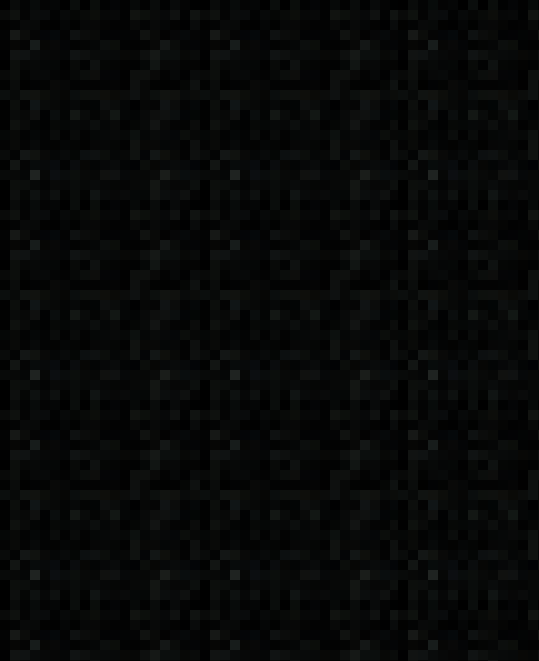
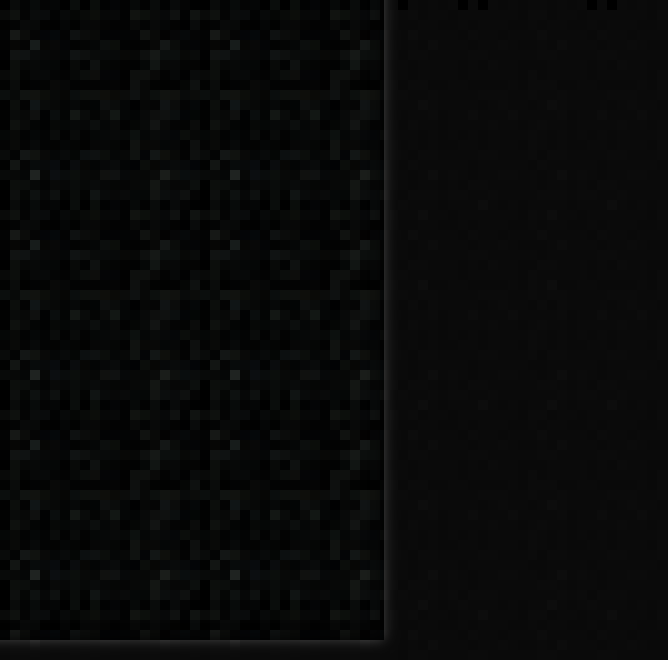
Display the next tetromino

diff --git a/src/com/flogisoft/tetrize/Game.java b/src/com/flogisoft/tetrize/Game.java
@@ -41,6 +41,7 @@ public class Game {
 
 	public static List<Block> blocks = new ArrayList<Block>();
 	public static Tetromino tetromino = null;
+	public static Tetromino nextTetromino = null;
 
 	public static int speed = 1;
 	private static int nSpeed = 10;
@@ -60,6 +61,7 @@ public class Game {
 		Timer timer = new Timer();
 		timer.scheduleAtFixedRate(new RefreshNUpdate(this), 100, 20);
 
+		Game.nextTetromino();
 		Game.nextTetromino();
 	}
 
@@ -99,28 +101,29 @@ public class Game {
 	static public void nextTetromino() {
 		Random randomGenerator = new Random();
 		int nextPiece = randomGenerator.nextInt(7);
+		Game.tetromino = Game.nextTetromino;
 
 		switch (nextPiece) {
 		case 0:
-			Game.tetromino = new TetrominoBar();
+			Game.nextTetromino = new TetrominoBar();
 			break;
 		case 1:
-			Game.tetromino = new TetrominoT();
+			Game.nextTetromino = new TetrominoT();
 			break;
 		case 2:
-			Game.tetromino = new TetrominoSquared();
+			Game.nextTetromino = new TetrominoSquared();
 			break;
 		case 3:
-			Game.tetromino = new TetrominoL();
+			Game.nextTetromino = new TetrominoL();
 			break;
 		case 4:
-			Game.tetromino = new TetrominoMirroredL();
+			Game.nextTetromino = new TetrominoMirroredL();
 			break;
 		case 5:
-			Game.tetromino = new TetrominoS();
+			Game.nextTetromino = new TetrominoS();
 			break;
 		case 6:
-			Game.tetromino = new TetrominoZ();
+			Game.nextTetromino = new TetrominoZ();
 			break;
 		}
 	}

diff --git a/src/com/flogisoft/tetrize/Tetromino.java b/src/com/flogisoft/tetrize/Tetromino.java
@@ -116,6 +116,32 @@ public class Tetromino {
 	}
 
 	/**
+	 * Draw the tetromino in the "next tetromino" place.
+	 * 
+	 * @param g the Graphics instance.
+	 * @param board the board
+	 */
+	public void drawAsNext(Graphics g, Board board) {
+		for (int y=0 ; y<4 ; y++) {
+			for (int x=0 ; x<4 ; x++) {
+				if (this.tetromino[this.rotation][y*4+x] == 1) {
+					g.drawImage(
+						Board.RES_BLOCKS,                                     //Source image
+						(Game.WIDTH + x + 1) * Game.BLOCK_SIZE,                    //From x pos (dest)
+						(1 + y) * Game.BLOCK_SIZE + this.offset,      //From y pos (dest)
+						(Game.WIDTH + x + 1) * Game.BLOCK_SIZE + Game.BLOCK_SIZE,  //To x pos (dest)
+						(1 + y) * Game.BLOCK_SIZE + Game.BLOCK_SIZE + this.offset,  //To y pos (dest)
+						this.color * Game.BLOCK_SIZE,                         //From x pos (src)
+						0,                                                    //From y pos(src)
+						this.color * Game.BLOCK_SIZE + Game.BLOCK_SIZE,       //To x pos (src)
+						Game.BLOCK_SIZE,                                      //To y pos (src)
+						board);
+				}
+			}
+		}
+	}
+
+	/**
 	 * Move the tetromino to the left.
 	 */
 	public void moveLeft() {

diff --git a/src/com/flogisoft/tetrize/Board.java b/src/com/flogisoft/tetrize/Board.java
@@ -85,6 +85,9 @@ public class Board extends JPanel implements ActionListener {
         if (Game.tetromino != null) {
         	Game.tetromino.draw(g, this);
         }
+        if (Game.nextTetromino != null) {
+        	Game.nextTetromino.drawAsNext(g, this);
+        }
         //Game over
         if (Game.gameover) {
         	g.drawImage(Board.RES_GAMEOVER, 0, 0, this);

diff --git a/src/com/flogisoft/tetrize/TetrizeWindow.java b/src/com/flogisoft/tetrize/TetrizeWindow.java
@@ -52,7 +52,7 @@ public class TetrizeWindow extends JFrame {
 		//Window's size
 		Insets insets = this.getInsets();
 		this.setSize(
-			Game.WIDTH * Game.BLOCK_SIZE + insets.left + insets.right, //Width
+			(Game.WIDTH+6) * Game.BLOCK_SIZE + insets.left + insets.right, //Width
 			Game.HEIGHT * Game.BLOCK_SIZE + insets.top + insets.bottom //Height
 			);
 	}
